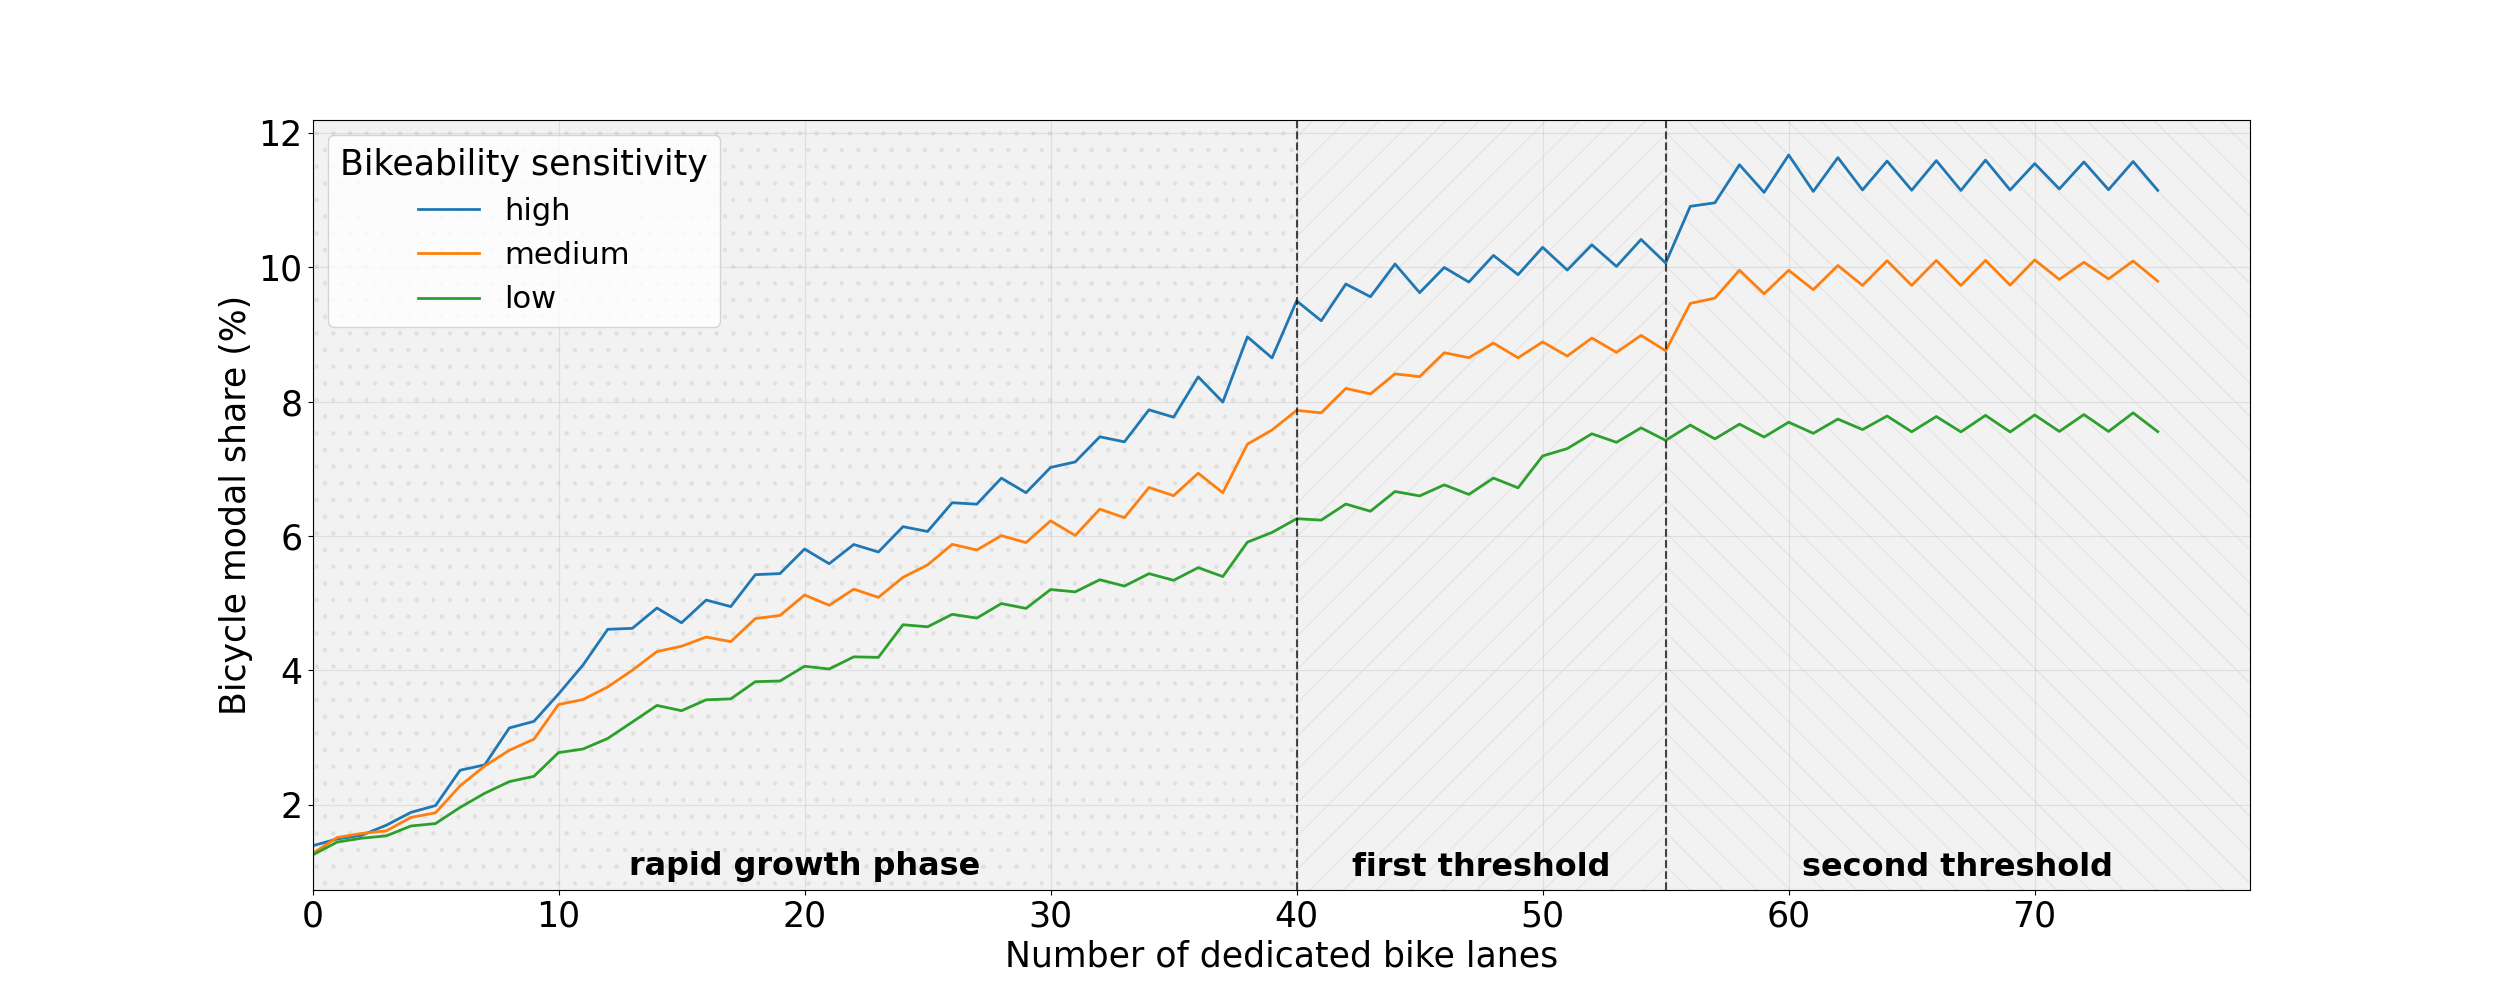
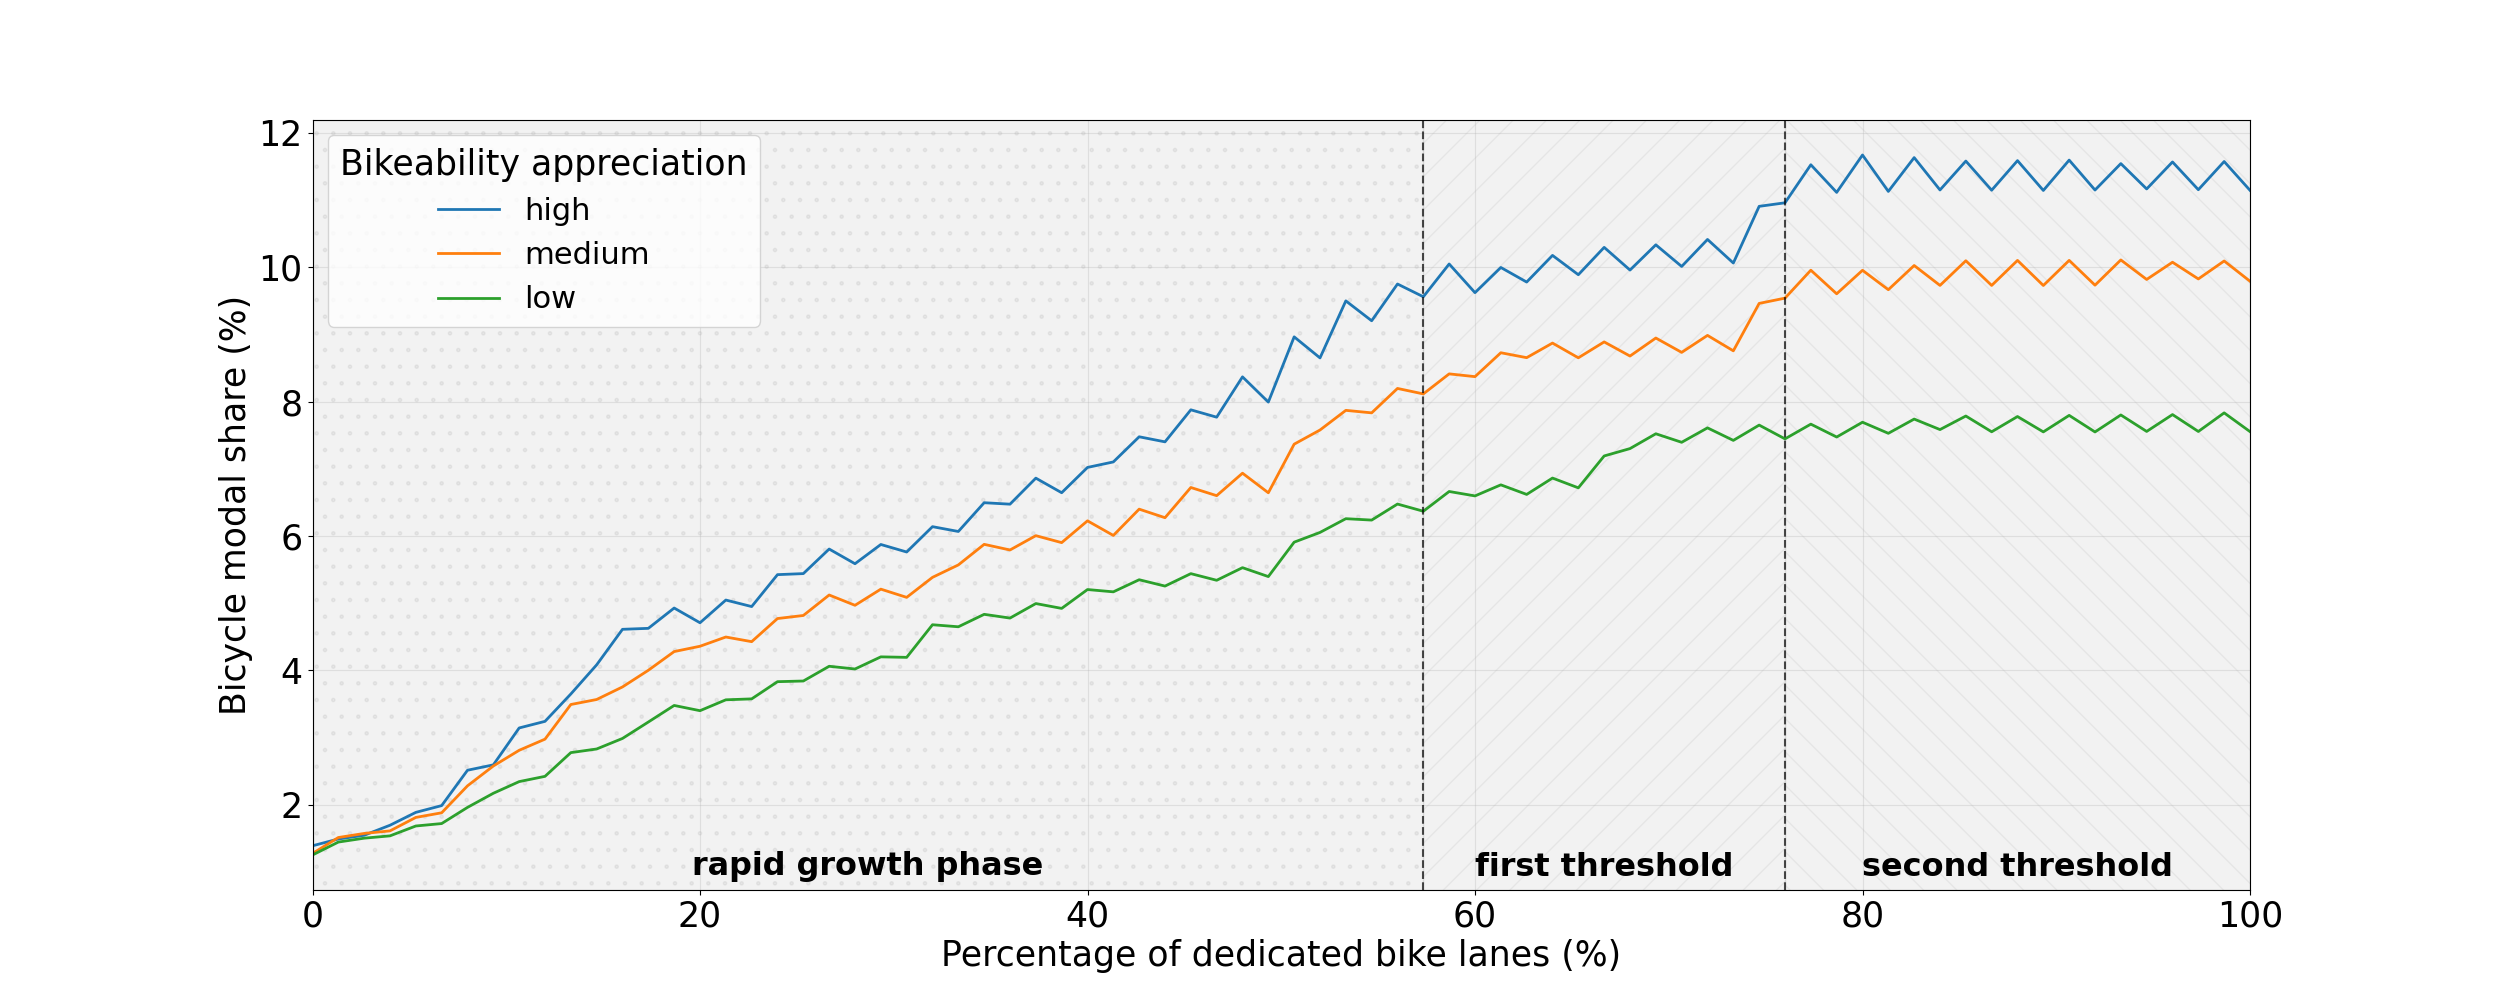
new plots for heart poster

diff --git a/plot_optimization.py b/plot_optimization.py
@@ -531,56 +531,62 @@ plt.savefig(f"output/_hEART_poster/bi_scenarios_comparaison_selected_with_flow.p
 list_name_bi = ['high', 'medium', 'low']
 fig, ax = plt.subplots(1, 1, figsize=(25, 10))
 
+# Définissez le nombre total de voies de votre réseau
+total_lanes = 75  # Remplacez cette valeur par le total réel de votre réseau
+
 for coef_map_num, name_bi in zip(list_coef_map_num, list_name_bi):
     name_test = f"CAP_{city_name}_test_{beta_time}_{ASC_bike}_bi_{coef_map_num}"
     filename = f"output/optimization/test_parametres/{horodatage}/rgo_results_df_opt_{name_test}.csv"
     df = pd.read_csv(filename)
-    ax.plot(df["nbr_bike_lanes"], df["modal_share_bike"], linewidth=2, label=name_bi)
 
-# Configuration des axes avant d'ajouter les zones
-ax.set_xlabel("Number of dedicated bike lanes")
+    # Conversion du nombre de pistes en pourcentage
+    df["pct_bike_lanes"] = (df["nbr_bike_lanes"] / total_lanes) * 100
+
+    ax.plot(df["pct_bike_lanes"], df["modal_share_bike"], linewidth=2, label=name_bi)
+
+# Configuration des axes
+ax.set_xlabel("Percentage of dedicated bike lanes (%)")
 ax.set_ylabel("Bicycle modal share (%)")
 ax.grid(True, alpha=0.3)
 
-# Récupération de la limite max de l'axe X
+# Conversion des zones en pourcentage (si zone1 et zone2 étaient en nombre brut)
+# Si 43 et 57 étaient déjà des pourcentages, vous pouvez supprimer la division par total_lanes
+zone1 = (43 / total_lanes) * 100
+zone2 = (57 / total_lanes) * 100
+
+ax.set_xlim(0, 100)
 x_max = ax.get_xlim()[1]
 y_min = ax.get_ylim()[0]
 y_max = ax.get_ylim()[1]
-zone1 = 40
-zone2 = 55
-
 
 # Zone 1
-ax.axvspan(0, zone1, color="black", hatch = ".", alpha=0.05)
+ax.axvspan(0, zone1, color="black", hatch=".", alpha=0.05)
 ax.text(
-    zone1/2,
+    zone1 / 2,
     0.05,
     "rapid growth phase",
     transform=ax.get_xaxis_transform(),
     ha="center",
     va="top",
-    fontsize=fontsize-2,
+    fontsize=fontsize - 2,
     fontweight="bold",
-
 )
 
 # Zone 2
-ax.axvspan(zone1, zone2, color="black", hatch = "/", alpha=0.05)
+ax.axvspan(zone1, zone2, color="black", hatch="/", alpha=0.05)
 ax.text(
-    (zone1+zone2)/2,
+    (zone1 + zone2) / 2,
     0.05,
     "first threshold",
     transform=ax.get_xaxis_transform(),
     ha="center",
     va="top",
-    fontsize=fontsize-2,
-    fontweight="bold")
-
-
-
+    fontsize=fontsize - 2,
+    fontweight="bold",
+)
 
 # Zone 3
-ax.axvspan(zone2, x_max, color="black", hatch = '\\', alpha=0.05)
+ax.axvspan(zone2, x_max, color="black", hatch="\\", alpha=0.05)
 ax.text(
     (zone2 + x_max) / 2,
     0.05,
@@ -588,16 +594,42 @@ ax.text(
     transform=ax.get_xaxis_transform(),
     ha="center",
     va="top",
-    fontsize=fontsize-2,
+    fontsize=fontsize - 2,
     fontweight="bold",
 )
 
 ax.set_xlim(0, x_max)
-ax.legend(loc="upper left", title="Bikeability sensitivity", fontsize=fontsize-3)
+ax.legend(loc="upper left", title="Bikeability appreciation", fontsize=fontsize - 3)
 
 ax.axvline(x=zone1, color="black", linestyle="--", linewidth=1.5, alpha=0.7)
 ax.axvline(x=zone2, color="black", linestyle="--", linewidth=1.5, alpha=0.7)
 
 plt.savefig("output/_hEART_poster/graph_results.png")
+plt.close()
 
-
+edge_df, node_df = import_network(f"data/{city_name}/edges_{city_name}.csv", f"data/{city_name}/nodes_{city_name}.csv", real_network=True)
+edge_df['existing_bike_infra']=False
+edge_df['type_bike']=None
+edge_df_results = pd.read_csv(f"output/optimization/test_parametres/2026-08-27_14-16-45/rgo_edge_df_results_CAP_Sioux_Falls_test_-0.001_-2_bi_21.csv")
+results_df_opt = pd.read_csv(f"output/optimization/test_parametres/2026-08-27_14-16-45/rgo_results_df_opt_CAP_Sioux_Falls_test_-0.001_-2_bi_21.csv")
+results_df_opt.drop("Unnamed: 0", axis=1, inplace=True)
+results_df_opt = results_df_opt.iloc[1:].reset_index(drop=True)
+results_df_opt["index_removed"] = results_df_opt["index_removed"].apply(ast.literal_eval)
+results_df_opt = results_df_opt.explode('index_removed')
+edge_df_existing = edge_df[edge_df["existing_bike_infra"]]
+edge_df = edge_df.merge(results_df_opt, how="inner", left_on="id", right_on="index_removed")
+edge_df.index = edge_df["id"]
+edge_df.drop(
+        ["nbr_bike_lanes", "nbr_none_bike_lanes", "modal_share_car", "modal_share_bike",
+         "index_removed",
+         "flow_of_removed_edge"], axis=1, inplace=True)
+edge_df.rename(columns={'iteration': 'iteration_of_removal'}, inplace=True)
+fig, ax = plt.subplots(1, 1, figsize=(15, 15))
+plot_network(edge_df, node_df, node_id_col='id',
+                     node_label=False,
+                     color_col_num='iteration_of_removal',
+                     base_width=1,
+                     legend=True,
+                     title=f"",
+                 ax=ax, show_nodes=True)
+plt.savefig("output/_hEART_poster/network_results.png")

diff --git a/utils_plotting.py b/utils_plotting.py
@@ -161,7 +161,8 @@ def plot_network(edges_df, nodes_df, ax=None, figsize=(10, 10), node_x_col='x', 
 
     ax.set_aspect('equal')
     ax.axis('off')
-    ax.set_title(title or f'Network (width by {width_col})')
+    if title is not None:
+        ax.set_title(title)
     plt.tight_layout()
     if ax is None:
         return fig, ax
